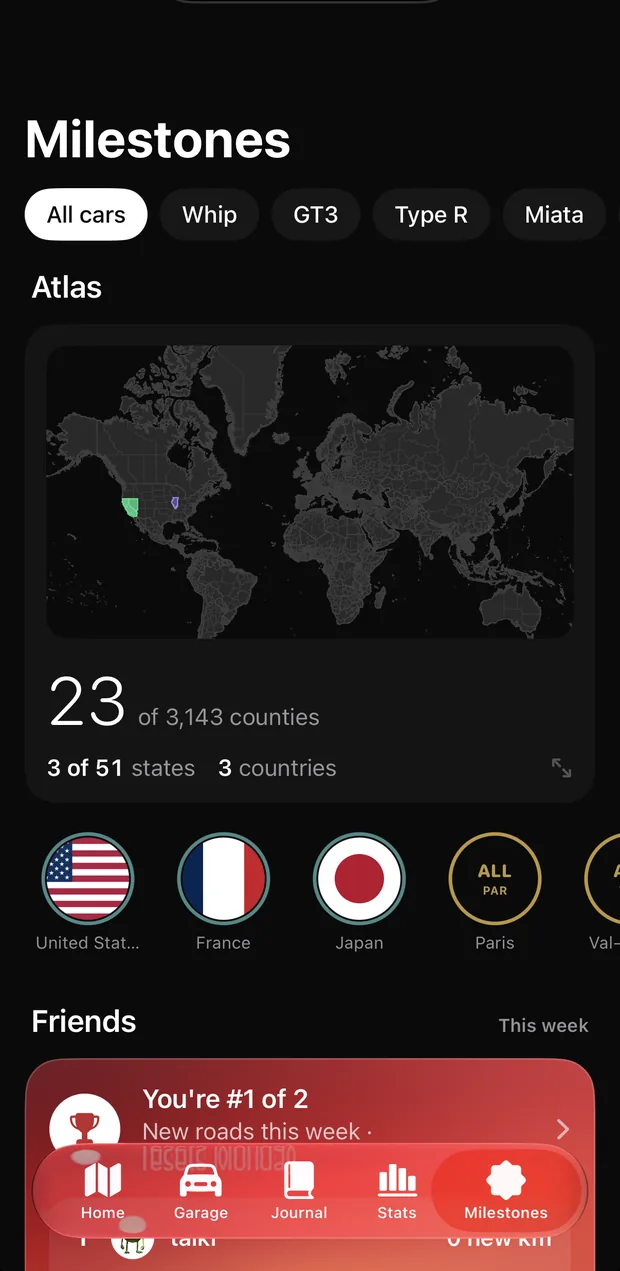
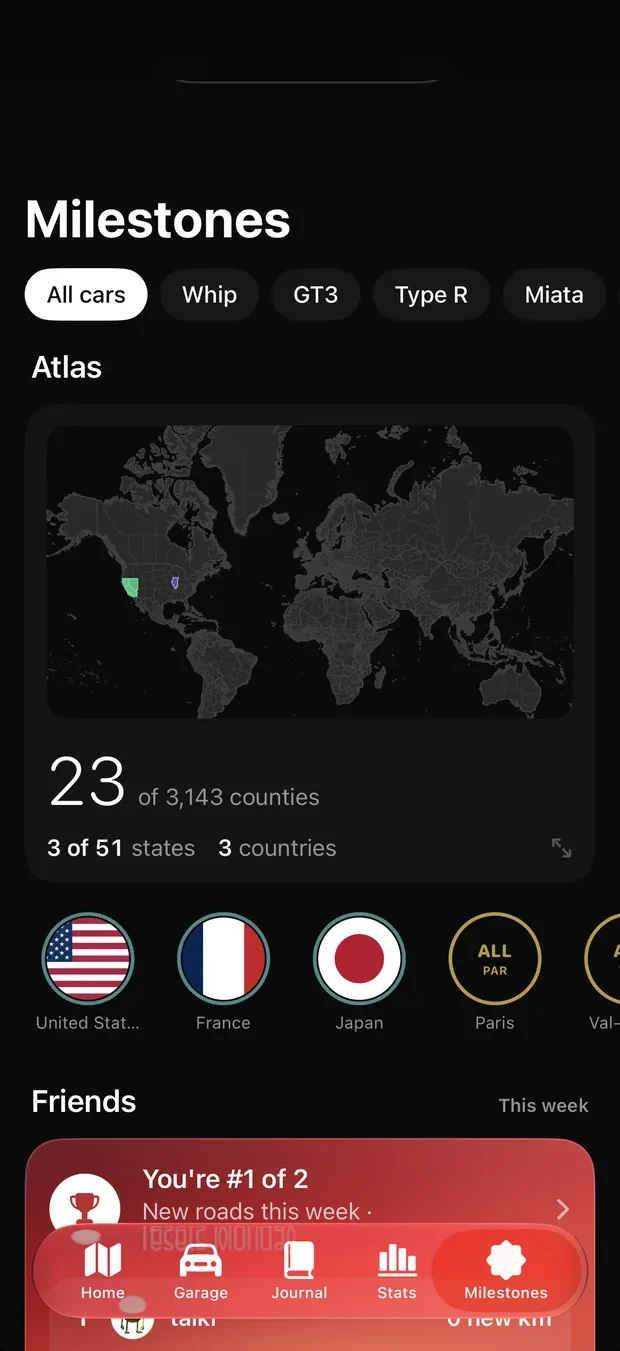
Site fixes: island space, no zoom, sample wording, one-line switches, phone layout
- Screenshots get a status-bar strip so the island no longer covers the app's top buttons
- Hero reel crossfades without scaling; entrance no longer scales phones
- Demo garage is beta-only: map copy now says sample logbook, iCloud sync replaces the demo switch
- Switch descriptions fit on one line on desktop
- Phones: no tall empty close/footer blocks, smaller logo block, shorter search placeholder

Claude-Session: https://claude.ai/code/session_01G1rxuYaUomcVygVk9vBgjS

diff --git a/support.html b/support.html
@@ -50,11 +50,11 @@
     <div class="wrap grid">
       <div class="search" data-rise>
         <h2 class="vh" id="faq2-title">Common questions</h2>
-        <label class="search-line"><svg viewBox="0 0 24 24" fill="none" stroke="currentColor" stroke-width="2" stroke-linecap="round" aria-hidden="true"><circle cx="11" cy="11" r="7"/><path d="m20 20-3.5-3.5"/></svg><span class="vh">Search help</span><input id="help-q" type="search" placeholder="Search, like battery or passenger" autocomplete="off"></label>
+        <label class="search-line"><svg viewBox="0 0 24 24" fill="none" stroke="currentColor" stroke-width="2" stroke-linecap="round" aria-hidden="true"><circle cx="11" cy="11" r="7"/><path d="m20 20-3.5-3.5"/></svg><span class="vh">Search help</span><input id="help-q" type="search" placeholder="Search, like battery" autocomplete="off"></label>
         <div class="topics" role="group" aria-label="Topics"><button type="button" data-topic="all" aria-pressed="true">All</button><button type="button" data-topic="recording" aria-pressed="false">Recording</button><button type="button" data-topic="cars" aria-pressed="false">Cars</button><button type="button" data-topic="map" aria-pressed="false">Map and Atlas</button><button type="button" data-topic="posters" aria-pressed="false">Posters</button><button type="button" data-topic="friends" aria-pressed="false">Friends</button><button type="button" data-topic="data" aria-pressed="false">iCloud and data</button><button type="button" data-topic="beta" aria-pressed="false">Beta</button></div>
         <p class="small muted" id="help-count" aria-live="polite" style="margin-top:12px"></p>
       </div>
-      <div class="help-list"><article class="help-item" id="record" data-topic="recording" data-rise><h3>A drive didn’t record.</h3><div class="ans"><p>In iOS Settings, set Location for Kaido to <span class="path">Always</span> and turn on <span class="path">Motion &amp; Fitness</span>. Kaido can’t record after you swipe it away in the app switcher, so leave it running in the background.</p><p>Low Power Mode can delay the start of short drives.</p></div></article><article class="help-item" id="battery" data-topic="recording" data-rise><h3>Does Kaido drain my battery?</h3><div class="ans"><p>Kaido uses motion to wake up only when you start driving, then records GPS until you park. Most of the battery use happens during drives. If it ever uses more than a few percent a day, Settings will say so under Recording.</p></div></article><article class="help-item" id="passenger" data-topic="recording" data-rise><h3>I was only a passenger.</h3><div class="ans"><p>Open the drive in Journal and choose <span class="path">Passenger</span> under Which car?. Passenger rides don’t count toward a car’s miles. If it wasn’t you at all, tap <span class="path">Not me</span>: the drive is hidden, then deleted after five seconds unless you tap Undo.</p></div></article><article class="help-item" id="trips" data-topic="recording" data-rise><h3>One stop split my drive in two.</h3><div class="ans"><p>A drive that starts within 10 minutes and 500 m of the last one joins it on its own. For a longer outing, tap <span class="path">Make a trip</span> in Journal and pick the drives that belong together.</p></div></article><article class="help-item" id="add-car" data-topic="cars" data-rise><h3>How do I add a car?</h3><div class="ans"><p>In Garage, tap <span class="path">+</span>. Scan the VIN with the camera or type it, and Kaido looks up the make and model. You can read the odometer with the camera as well.</p></div></article><article class="help-item" id="which-car" data-topic="cars" data-rise><h3>How does it pick the car?</h3><div class="ans"><p>It uses CarPlay and Bluetooth to tell your cars apart. If it guesses wrong, change the car in Journal under Which car?, and the drive moves to that car’s map.</p></div></article><article class="help-item" id="atlas" data-topic="map" data-rise><h3>What is the Atlas?</h3><div class="ans"><p>The Atlas lives in Milestones. It colors in every country, state, province, US county and Japanese prefecture or city your drives have passed through, and gives you a stamp for each.</p></div></article><article class="help-item" id="explored" data-topic="map" data-rise><h3>Explored is stuck at 0%.</h3><div class="ans"><p>Explored compares your drives with your town’s streets from OpenStreetMap, which Kaido downloads after you drive somewhere new. It can take a moment. If it stays at 0%, open Stats and tap <span class="path">Retry</span>.</p></div></article><article class="help-item" id="map-style" data-topic="map" data-rise><h3>Can I change how the map looks?</h3><div class="ans"><p>Tap the map button on Home to switch to the next look, or flick it left and right. Your choice is saved.</p></div></article><article class="help-item" id="posters" data-topic="posters" data-rise><h3>How do I make a poster?</h3><div class="ans"><p>Open a drive or a record and tap <span class="path">Share</span>. Pick the line color, turn the speed graph, car photo or End on map on or off, then export an image or a 9:16 video.</p></div></article><article class="help-item" id="add-friends" data-topic="friends" data-rise><h3>How do I add friends?</h3><div class="ans"><p>Open Friends and share your invite code. When a friend enters it, you each appear on the other’s weekly boards: new roads, new counties, longest trip and miles.</p></div></article><article class="help-item" id="friends-see" data-topic="friends" data-rise><h3>What do my friends see?</h3><div class="ans"><p>Your username, photo, country, cars and totals. If <span class="path">Share rides with friends</span> is on (it is at first), they also see your latest drive and the one you pin, including the route. Turn it off in Profile. The <a href="privacy.html#friends">privacy policy</a> lists every field.</p></div></article><article class="help-item" id="delete-friends" data-topic="friends" data-rise><h3>Deleting my Friends profile</h3><div class="ans"><p>Open <span class="path">Profile › Delete my Friends profile</span>. It removes your name, photo, totals, shared rides and invite code. Your drives stay on your iPhone.</p></div></article><article class="help-item" id="account" data-topic="data" data-rise><h3>Do I need an account?</h3><div class="ans"><p>No. Kaido uses your iCloud to sync, so there’s nothing to sign up for. Your drives and cars come back when you sign in to a new iPhone with the same Apple Account.</p></div></article><article class="help-item" id="delete-all" data-topic="data" data-rise><h3>How do I delete everything?</h3><div class="ans"><p>Delete drives and cars inside the app. To remove it all, delete the app, then remove Kaido’s data in <span class="path">Settings › your name › iCloud › Manage Storage</span>. Email us to remove a Friends profile you can no longer reach.</p></div></article><article class="help-item" id="beta" data-topic="beta" data-rise><h3>How do I join the beta?</h3><div class="ans"><p>Ask for an invite on the <a href="contact.html?topic=beta">contact page</a>. You’ll get a TestFlight link by email; install TestFlight from the App Store, then open the link on your iPhone.</p></div></article><article class="help-item" id="demo" data-topic="beta" data-rise><h3>Can I try Kaido without driving?</h3><div class="ans"><p>Yes. In Settings, tap <span class="path">Load the demo garage</span>: four years and 50,000 km across the USA, France and Japan. Tap <span class="path">Exit the demo</span> to go back to your own drives.</p></div></article></div>
+      <div class="help-list"><article class="help-item" id="record" data-topic="recording" data-rise><h3>A drive didn’t record.</h3><div class="ans"><p>In iOS Settings, set Location for Kaido to <span class="path">Always</span> and turn on <span class="path">Motion &amp; Fitness</span>. Kaido can’t record after you swipe it away in the app switcher, so leave it running in the background.</p><p>Low Power Mode can delay the start of short drives.</p></div></article><article class="help-item" id="battery" data-topic="recording" data-rise><h3>Does Kaido drain my battery?</h3><div class="ans"><p>Kaido uses motion to wake up only when you start driving, then records GPS until you park. Most of the battery use happens during drives. If it ever uses more than a few percent a day, Settings will say so under Recording.</p></div></article><article class="help-item" id="passenger" data-topic="recording" data-rise><h3>I was only a passenger.</h3><div class="ans"><p>Open the drive in Journal and choose <span class="path">Passenger</span> under Which car?. Passenger rides don’t count toward a car’s miles. If it wasn’t you at all, tap <span class="path">Not me</span>: the drive is hidden, then deleted after five seconds unless you tap Undo.</p></div></article><article class="help-item" id="trips" data-topic="recording" data-rise><h3>One stop split my drive in two.</h3><div class="ans"><p>A drive that starts within 10 minutes and 500 m of the last one joins it on its own. For a longer outing, tap <span class="path">Make a trip</span> in Journal and pick the drives that belong together.</p></div></article><article class="help-item" id="add-car" data-topic="cars" data-rise><h3>How do I add a car?</h3><div class="ans"><p>In Garage, tap <span class="path">+</span>. Scan the VIN with the camera or type it, and Kaido looks up the make and model. You can read the odometer with the camera as well.</p></div></article><article class="help-item" id="which-car" data-topic="cars" data-rise><h3>How does it pick the car?</h3><div class="ans"><p>It uses CarPlay and Bluetooth to tell your cars apart. If it guesses wrong, change the car in Journal under Which car?, and the drive moves to that car’s map.</p></div></article><article class="help-item" id="atlas" data-topic="map" data-rise><h3>What is the Atlas?</h3><div class="ans"><p>The Atlas lives in Milestones. It colors in every country, state, province, US county and Japanese prefecture or city your drives have passed through, and gives you a stamp for each.</p></div></article><article class="help-item" id="explored" data-topic="map" data-rise><h3>Explored is stuck at 0%.</h3><div class="ans"><p>Explored compares your drives with your town’s streets from OpenStreetMap, which Kaido downloads after you drive somewhere new. It can take a moment. If it stays at 0%, open Stats and tap <span class="path">Retry</span>.</p></div></article><article class="help-item" id="map-style" data-topic="map" data-rise><h3>Can I change how the map looks?</h3><div class="ans"><p>Tap the map button on Home to switch to the next look, or flick it left and right. Your choice is saved.</p></div></article><article class="help-item" id="posters" data-topic="posters" data-rise><h3>How do I make a poster?</h3><div class="ans"><p>Open a drive or a record and tap <span class="path">Share</span>. Pick the line color, turn the speed graph, car photo or End on map on or off, then export an image or a 9:16 video.</p></div></article><article class="help-item" id="add-friends" data-topic="friends" data-rise><h3>How do I add friends?</h3><div class="ans"><p>Open Friends and share your invite code. When a friend enters it, you each appear on the other’s weekly boards: new roads, new counties, longest trip and miles.</p></div></article><article class="help-item" id="friends-see" data-topic="friends" data-rise><h3>What do my friends see?</h3><div class="ans"><p>Your username, photo, country, cars and totals. If <span class="path">Share rides with friends</span> is on (it is at first), they also see your latest drive and the one you pin, including the route. Turn it off in Profile. The <a href="privacy.html#friends">privacy policy</a> lists every field.</p></div></article><article class="help-item" id="delete-friends" data-topic="friends" data-rise><h3>Deleting my Friends profile</h3><div class="ans"><p>Open <span class="path">Profile › Delete my Friends profile</span>. It removes your name, photo, totals, shared rides and invite code. Your drives stay on your iPhone.</p></div></article><article class="help-item" id="account" data-topic="data" data-rise><h3>Do I need an account?</h3><div class="ans"><p>No. Kaido uses your iCloud to sync, so there’s nothing to sign up for. Your drives and cars come back when you sign in to a new iPhone with the same Apple Account.</p></div></article><article class="help-item" id="delete-all" data-topic="data" data-rise><h3>How do I delete everything?</h3><div class="ans"><p>Delete drives and cars inside the app. To remove it all, delete the app, then remove Kaido’s data in <span class="path">Settings › your name › iCloud › Manage Storage</span>. Email us to remove a Friends profile you can no longer reach.</p></div></article><article class="help-item" id="beta" data-topic="beta" data-rise><h3>How do I join the beta?</h3><div class="ans"><p>Ask for an invite on the <a href="contact.html?topic=beta">contact page</a>. You’ll get a TestFlight link by email; install TestFlight from the App Store, then open the link on your iPhone.</p></div></article><article class="help-item" id="demo" data-topic="beta" data-rise><h3>Is there a demo?</h3><div class="ans"><p>In beta builds, yes. In Settings, tap <span class="path">Load the demo garage</span>: four years and 50,000 km across the USA, France and Japan. Tap <span class="path">Exit the demo</span> to go back to your own drives.</p></div></article></div>
       <p class="none" hidden>Nothing matches that. <a href="contact.html">Ask Taiki directly</a>.</p>
     </div>
   </section>

diff --git a/index.html b/index.html
@@ -45,11 +45,11 @@
       <div class="hero-stage">
         <div class="wrap hero-in">
           <h1 id="hero-title"><span class="half a">Every road</span> <span class="half b">you've driven.</span></h1>
-          <div class="hero-phone phone-order"><div class="phone reel"><img src="assets/screens/home-map.webp" width="620" height="1271" alt="Kaido Home screen: a dark map of Los Angeles covered in colored routes, 49,761 km over 1,222 drives" class="on" decoding="async"><img src="assets/screens/garage.webp" width="620" height="1271" alt="Kaido Garage: a Honda S2000 card over its routes around Tokyo, 13,293 km together" loading="lazy" decoding="async"><img src="assets/screens/journal.webp" width="620" height="1271" alt="Kaido Journal: a list of drives such as Arts District, Manhattan Beach and Glendora Mountain Road" loading="lazy" decoding="async"><img src="assets/screens/poster-718.webp" width="620" height="1271" alt="A Kaido poster: the biggest day, 718 km down the California coast" loading="lazy" decoding="async"></div></div>
+          <div class="hero-phone phone-order"><div class="phone reel"><img src="assets/screens/home-map.webp" width="620" height="1351" alt="Kaido Home screen: a dark map of Los Angeles covered in colored routes, 49,761 km over 1,222 drives" class="on" decoding="async"><img src="assets/screens/garage.webp" width="620" height="1351" alt="Kaido Garage: a Honda S2000 card over its routes around Tokyo, 13,293 km together" loading="lazy" decoding="async"><img src="assets/screens/journal.webp" width="620" height="1351" alt="Kaido Journal: a list of drives such as Arts District, Manhattan Beach and Glendora Mountain Road" loading="lazy" decoding="async"><img src="assets/screens/poster-718.webp" width="620" height="1351" alt="A Kaido poster: the biggest day, 718 km down the California coast" loading="lazy" decoding="async"></div></div>
           <div class="hero-foot">
             <div>
               <p class="intro"><strong>Kaido is a logbook for your car.</strong> It records every drive on its own and fills in a map of every road, county and country you've driven, car by car.</p>
-              <div class="actions"><a class="btn big" href="contact.html?topic=beta">Join the beta</a><a class="btn big quiet" href="#demo">Try the demo map</a></div>
+              <div class="actions"><a class="btn big" href="contact.html?topic=beta">Join the beta</a><a class="btn big quiet" href="#demo">Try the map</a></div>
             </div>
             <div class="hero-cap" aria-live="polite"><span class="step">1 of 4</span><span class="cap">Home: four years of drives, each car in its own color.</span><div class="dots" aria-hidden="true"><span class="on"></span><span></span><span></span><span></span></div></div>
           </div>
@@ -62,9 +62,9 @@
     <div class="wrap grid demo-grid">
       <div class="demo-copy">
         <h2 class="t-head" id="demo-title" data-rise>Look up a drive.</h2>
-        <p class="body muted" data-rise style="--i:1">Kaido ships with a demo garage so you can try every screen before your first drive: four years and about 50,000 km around Los Angeles, a year in France and a road trip across Japan. These are its routes.</p>
+        <p class="body muted" data-rise style="--i:1">Every drive lands in a logbook you can search by road, town or place. Try it here on a sample: four years and about 50,000 km around Los Angeles, a year in France and a road trip across Japan.</p>
         <div class="finder" data-rise style="--i:2">
-          <label for="find">Search the demo garage</label>
+          <label for="find">Search the sample logbook</label>
           <div class="finder-line"><input id="find" type="search" list="drive-names" autocomplete="off" spellcheck="false" placeholder="Big Sur"></div>
           <datalist id="drive-names"></datalist>
           <ul class="suggest" aria-label="Try one">
@@ -79,9 +79,9 @@
       <div class="demo-map" data-rise style="--i:1">
         <div class="map-card" data-base="assets/data/">
           <img class="map-fallback" src="assets/screens/video.webp" width="620" height="1348" alt="" loading="lazy">
-          <svg viewBox="0 0 1000 800" role="img" aria-label="Map of the demo garage's drives, one color per car"><g class="g-land"></g><g class="g-routes"></g></svg>
+          <svg viewBox="0 0 1000 800" role="img" aria-label="Map of the sample drives, one color per car"><g class="g-land"></g><g class="g-routes"></g></svg>
           <div class="map-head">
-            <div><p class="odo"><b>0</b><small>km</small></p><p class="odo-sub">Loading the demo garage</p></div>
+            <div><p class="odo"><b>0</b><small>km</small></p><p class="odo-sub">Loading the sample drives</p></div>
           </div>
         </div>
         <div class="regions" role="group" aria-label="Where to look">
@@ -108,8 +108,8 @@
         </div>
       </div>
       <div class="show duo">
-        <div class="phone" data-rise style="--i:0"><img src="assets/screens/atlas.webp" width="620" height="1271" alt="Kaido Milestones: the Atlas map, 23 of 3,143 counties, 3 of 51 states, 3 countries, with US, France and Japan stamps" loading="lazy" decoding="async"></div>
-        <div class="phone" data-rise style="--i:1"><img src="assets/screens/stamps.webp" width="620" height="1271" alt="Kaido stamps: 63 round stamps in a honeycomb, with the US, France and Japan flags in the middle" loading="lazy" decoding="async"></div>
+        <div class="phone" data-rise style="--i:0"><img src="assets/screens/atlas.webp" width="620" height="1351" alt="Kaido Milestones: the Atlas map, 23 of 3,143 counties, 3 of 51 states, 3 countries, with US, France and Japan stamps" loading="lazy" decoding="async"></div>
+        <div class="phone" data-rise style="--i:1"><img src="assets/screens/stamps.webp" width="620" height="1351" alt="Kaido stamps: 63 round stamps in a honeycomb, with the US, France and Japan flags in the middle" loading="lazy" decoding="async"></div>
       </div>
     </div>
   </section>
@@ -122,9 +122,9 @@
         <p class="body muted" data-rise style="--i:2">Share it as an image, or as a 9:16 video that draws the line and lands on the map.</p>
       </div>
       <figure class="show fan" style="margin:0">
-        <div class="phone" data-rise style="--i:0"><img src="assets/screens/poster-718.webp" width="620" height="1271" alt="Poster: Record, biggest day, 718 km. Barely got out of the car." loading="lazy" decoding="async"></div>
-        <div class="phone" data-rise style="--i:1"><img src="assets/screens/poster-hakone.webp" width="620" height="1271" alt="Poster: Hakone Turnpike at dawn, 48.9 km in 1 hour 6 minutes, top 87 km/h, in a Honda S2000" loading="lazy" decoding="async"></div>
-        <div class="phone" data-rise style="--i:2"><img src="assets/screens/poster-new-roads.webp" width="620" height="1271" alt="Poster: Record, new roads, 10,149 km. Roads you would never been down." loading="lazy" decoding="async"></div>
+        <div class="phone" data-rise style="--i:0"><img src="assets/screens/poster-718.webp" width="620" height="1351" alt="Poster: Record, biggest day, 718 km. Barely got out of the car." loading="lazy" decoding="async"></div>
+        <div class="phone" data-rise style="--i:1"><img src="assets/screens/poster-hakone.webp" width="620" height="1351" alt="Poster: Hakone Turnpike at dawn, 48.9 km in 1 hour 6 minutes, top 87 km/h, in a Honda S2000" loading="lazy" decoding="async"></div>
+        <div class="phone" data-rise style="--i:2"><img src="assets/screens/poster-new-roads.webp" width="620" height="1351" alt="Poster: Record, new roads, 10,149 km. Roads you would never been down." loading="lazy" decoding="async"></div>
       </figure>
     </div>
   </section>
@@ -132,8 +132,8 @@
   <section class="section" aria-labelledby="friends-title">
     <div class="wrap grid split">
       <div class="show duo left">
-        <div class="phone" data-rise style="--i:0"><img src="assets/screens/friend.webp" width="620" height="1271" alt="A friend card: kenji_r, Japan, Toyota GR86, 66,385 km across two cars, with a pinned drive on the Hakone Turnpike" loading="lazy" decoding="async"></div>
-        <div class="phone" data-rise style="--i:1"><img src="assets/screens/stats.webp" width="620" height="1271" alt="Kaido Stats: average speed 55 km/h, top 133 km/h, a speed chart, 3,770 left turns and 624 hard stops" loading="lazy" decoding="async"></div>
+        <div class="phone" data-rise style="--i:0"><img src="assets/screens/friend.webp" width="620" height="1351" alt="A friend card: kenji_r, Japan, Toyota GR86, 66,385 km across two cars, with a pinned drive on the Hakone Turnpike" loading="lazy" decoding="async"></div>
+        <div class="phone" data-rise style="--i:1"><img src="assets/screens/stats.webp" width="620" height="1351" alt="Kaido Stats: average speed 55 km/h, top 133 km/h, a speed chart, 3,770 left turns and 624 hard stops" loading="lazy" decoding="async"></div>
       </div>
       <div class="say right">
         <h2 class="t-head" id="friends-title" data-rise>Friends, ranked on new roads.</h2>
@@ -150,7 +150,7 @@
     </div>
     <div class="bands">
       <div class="band" data-c="green">
-        <div><p class="sent">Share rides with friends.</p><p class="why" data-on="Friends see your latest drive and the one you pin: route, distance, time and speeds." data-off="Friends see your name, cars and totals. No routes.">Friends see your latest drive and the one you pin: route, distance, time and speeds.</p></div>
+        <div><p class="sent">Share rides with friends.</p><p class="why" data-on="Friends see your latest and pinned drives: route, distance, time, speed." data-off="Friends see your name, cars and totals. No routes.">Friends see your latest and pinned drives: route, distance, time, speed.</p></div>
         <button class="switch" type="button" role="switch" aria-checked="true" aria-label="Share rides with friends"></button>
       </div>
       <div class="band" data-c="orange">
@@ -158,12 +158,12 @@
         <button class="switch" type="button" role="switch" aria-checked="true" aria-label="Put the speed graph on posters"></button>
       </div>
       <div class="band" data-c="blue">
-        <div><p class="sent">End the video on the map.</p><p class="why" data-on="The drawn route settles onto a black-and-white satellite map of where you drove." data-off="The video ends on the line alone.">The video ends on the line alone.</p></div>
+        <div><p class="sent">End the video on the map.</p><p class="why" data-on="The route settles onto a black-and-white satellite map." data-off="The video ends on the line alone.">The video ends on the line alone.</p></div>
         <button class="switch" type="button" role="switch" aria-checked="false" aria-label="End the video on the map"></button>
       </div>
       <div class="band" data-c="pink">
-        <div><p class="sent">Load the demo garage.</p><p class="why" data-on="Four years and 50,000 km across the USA, France and Japan, in six cars." data-off="Only your own drives. You can load the demo from Settings any time.">Only your own drives. You can load the demo from Settings any time.</p></div>
-        <button class="switch" type="button" role="switch" aria-checked="false" aria-label="Load the demo garage"></button>
+        <div><p class="sent">Sync with iCloud.</p><p class="why" data-on="Cars and drives follow you to a new iPhone, in your own private iCloud." data-off="Cars and drives stay on this iPhone only.">Cars and drives follow you to a new iPhone, in your own private iCloud.</p></div>
+        <button class="switch" type="button" role="switch" aria-checked="true" aria-label="Sync with iCloud"></button>
       </div>
     </div>
   </section>

diff --git a/assets/site.css b/assets/site.css
@@ -171,13 +171,13 @@ button, input, select, textarea { font: inherit; color: inherit; }
 
 /* ---------- Phone screenshots ---------- */
 .phone {
-  position: relative; aspect-ratio: 620 / 1271; border-radius: 13% / 6.3%;
+  position: relative; aspect-ratio: 620 / 1351; border-radius: 13% / 6%;
   background: #000; overflow: hidden; isolation: isolate;
   border: clamp(4px, 0.55vw, 9px) solid #1f1f22;
 }
 .phone img { position: absolute; inset: 0; width: 100%; height: 100%; object-fit: cover; object-position: top; }
 .phone::after { /* the island */
-  content: ""; position: absolute; top: 1.6%; left: 50%; width: 30%; height: 3.6%; transform: translateX(-50%);
+  content: ""; position: absolute; top: 1.5%; left: 50%; width: 31%; height: 3.9%; transform: translateX(-50%);
   background: #000; border-radius: 999px; z-index: 2;
 }
 
@@ -194,14 +194,14 @@ body[data-page="home"] .menu-btn { color: var(--on-dark); }
 body[data-page="home"] .sheet { background: var(--field-dark); color: var(--on-dark); }
 .hero-track { height: 220svh; }
 .hero-stage { position: sticky; top: 64px; height: calc(100svh - 64px); min-height: 600px; overflow: hidden; }
-.hero-in { --pw: clamp(220px, min(24vw, calc((100svh - 190px) * 0.488)), 400px); position: relative; height: 100%; display: grid; grid-template-columns: 1fr; grid-template-rows: 1fr; align-items: center; }
+.hero-in { --pw: clamp(220px, min(24vw, calc((100svh - 190px) * 0.459)), 400px); position: relative; height: 100%; display: grid; grid-template-columns: 1fr; grid-template-rows: 1fr; align-items: center; }
 .hero h1 { grid-area: 1 / 1; display: grid; grid-template-columns: 1fr var(--pw) 1fr; column-gap: clamp(20px, 3vw, 48px); align-items: center; padding-bottom: 6svh; position: relative; z-index: 1; pointer-events: none; }
 .hero .half { font-size: clamp(40px, 4.6vw, 88px); line-height: 0.96; letter-spacing: -0.045em; font-weight: 700; }
 .hero .half.a { grid-column: 1; justify-self: start; }
 .hero .half.b { grid-column: 3; justify-self: end; text-align: right; }
 .hero-phone { grid-area: 1 / 1; justify-self: center; width: var(--pw); margin-bottom: 6svh; pointer-events: none; }
-.hero .reel img { opacity: 0; transform: scale(1.04); transition: opacity 0.6s var(--ease-out), transform 0.9s var(--ease-out); }
-.hero .reel img.on { opacity: 1; transform: none; }
+.hero .reel img { opacity: 0; transition: opacity 0.45s ease; }
+.hero .reel img.on { opacity: 1; }
 .hero-foot { position: absolute; left: var(--margin); right: var(--margin); bottom: clamp(20px, 4svh, 40px); display: grid; grid-template-columns: 1fr 1fr; align-items: end; gap: 24px; }
 .hero-foot .intro { max-width: 34ch; font-size: var(--t-body); }
 .hero-foot .intro strong { font-weight: 600; }
@@ -326,7 +326,7 @@ body[data-page="home"] .sheet { background: var(--field-dark); color: var(--on-d
   transition: background-color 0.35s var(--ease-out), color 0.35s var(--ease-out);
 }
 .band .sent { font-size: var(--t-sub); font-weight: 700; letter-spacing: -0.035em; line-height: 1.05; }
-.band .why { font-size: var(--t-body); margin-top: 10px; max-width: 56ch; }
+.band .why { font-size: var(--t-body); margin-top: 10px; max-width: 72ch; }
 .band.on { color: #121212; }
 .band.on[data-c="blue"] { background: var(--car-gt3); }
 .band.on[data-c="green"] { background: var(--car-typer); }
@@ -409,7 +409,7 @@ body[data-page="home"] .sheet { background: var(--field-dark); color: var(--on-d
 .close-foot { display: grid; grid-template-columns: 1fr auto; align-items: end; gap: 24px; margin-top: 64px; }
 .close-foot p { max-width: 40ch; font-size: var(--t-body); }
 @media (max-width: 860px) {
-  .close { min-height: 80svh; }
+  .close { min-height: 0; }
   .close h2 { font-size: clamp(54px, 15vw, 96px); }
   .close-foot { grid-template-columns: 1fr; }
   .close-foot .btn { width: 100%; }
@@ -437,6 +437,7 @@ body[data-page="home"] .sheet { background: var(--field-dark); color: var(--on-d
   .foot-meta { grid-template-columns: 1fr; font-size: 13px; }
   .foot-meta .right { text-align: left; }
   .foot-top { flex-direction: column; }
+  .foot { min-height: 0; }
 }
 
 /* ---------- Inner pages ---------- */
@@ -546,7 +547,7 @@ body[data-page="home"] .sheet { background: var(--field-dark); color: var(--on-d
 .rules h3 { grid-column: 1 / span 6; font-size: clamp(26px, 2.8vw, 44px); letter-spacing: -0.03em; line-height: 1.05; }
 .rules p { grid-column: 8 / span 5; }
 @media (max-width: 860px) {
-  .logo-stage { grid-column: 1 / -1; }
+  .logo-stage { grid-column: 1 / -1; width: min(100%, 280px); border-radius: 24px; }
   .rules h3, .rules p { grid-column: 1 / -1; }
   .rules p { margin-top: 12px; }
 }
@@ -571,7 +572,7 @@ body[data-page="home"] .sheet { background: var(--field-dark); color: var(--on-d
 @media (prefers-reduced-motion: no-preference) {
 .js [data-rise] { opacity: 0; transform: translateY(24px); transition: opacity 0.7s var(--ease-out), transform 0.9s var(--ease-out); transition-delay: calc(var(--i, 0) * 80ms); }
 .js [data-rise].in { opacity: 1; transform: none; }
-.js .phone[data-rise] { transform: translateY(40px) scale(0.98); }
+.js .phone[data-rise] { transform: translateY(40px); }
 .js .phone[data-rise].in { transform: none; }
 .js .fan .phone[data-rise].in:nth-child(1) { transform: translateY(8%); }
 .js .fan .phone[data-rise].in:nth-child(3) { transform: translateY(14%); }

diff --git a/about.html b/about.html
@@ -76,18 +76,18 @@
     <div class="wrap">
       <h2 class="t-head" id="gal-title" data-rise style="margin-bottom:48px">Four screens, one logbook.</h2>
       <div class="gallery">
-        <figure data-rise><div class="phone"><img src="assets/screens/garage.webp" width="620" height="1271" alt="Garage: a Honda S2000 over its routes around Tokyo" loading="lazy" decoding="async"></div><figcaption><b>Garage.</b> Each car with its own map, odometer and color.</figcaption></figure>
-        <figure data-rise style="--i:1"><div class="phone"><img src="assets/screens/journal.webp" width="620" height="1271" alt="Journal: a list of drives in Los Angeles" loading="lazy" decoding="async"></div><figcaption><b>Journal.</b> Every drive, logged without a tap.</figcaption></figure>
-        <figure data-rise style="--i:2"><div class="phone"><img src="assets/screens/atlas.webp" width="620" height="1271" alt="Milestones: the Atlas with US, France and Japan stamps" loading="lazy" decoding="async"></div><figcaption><b>Atlas.</b> Countries, states and counties, filled in.</figcaption></figure>
-        <figure data-rise style="--i:3"><div class="phone"><img src="assets/screens/poster-new-roads.webp" width="620" height="1271" alt="A poster of 10,149 km of new roads" loading="lazy" decoding="async"></div><figcaption><b>Posters.</b> Any record, ready to share.</figcaption></figure>
+        <figure data-rise><div class="phone"><img src="assets/screens/garage.webp" width="620" height="1351" alt="Garage: a Honda S2000 over its routes around Tokyo" loading="lazy" decoding="async"></div><figcaption><b>Garage.</b> Each car with its own map, odometer and color.</figcaption></figure>
+        <figure data-rise style="--i:1"><div class="phone"><img src="assets/screens/journal.webp" width="620" height="1351" alt="Journal: a list of drives in Los Angeles" loading="lazy" decoding="async"></div><figcaption><b>Journal.</b> Every drive, logged without a tap.</figcaption></figure>
+        <figure data-rise style="--i:2"><div class="phone"><img src="assets/screens/atlas.webp" width="620" height="1351" alt="Milestones: the Atlas with US, France and Japan stamps" loading="lazy" decoding="async"></div><figcaption><b>Atlas.</b> Countries, states and counties, filled in.</figcaption></figure>
+        <figure data-rise style="--i:3"><div class="phone"><img src="assets/screens/poster-new-roads.webp" width="620" height="1351" alt="A poster of 10,149 km of new roads" loading="lazy" decoding="async"></div><figcaption><b>Posters.</b> Any record, ready to share.</figcaption></figure>
       </div>
     </div>
   </section>
   <section class="section" aria-labelledby="maker-title">
     <div class="wrap grid split">
       <div class="show duo left">
-        <div class="phone" data-rise style="--i:0"><img src="assets/screens/home-light.webp" width="620" height="1271" alt="Kaido Home on a daytime map of Los Angeles: 49,772 km, with car pills for Whip, Highliner and GT3" loading="lazy" decoding="async"></div>
-        <div class="phone" data-rise style="--i:1"><img src="assets/screens/video.webp" width="620" height="1271" alt="A Kaido video frame: routes around Los Angeles in six colors, one per car, and 30,918 miles" loading="lazy" decoding="async"></div>
+        <div class="phone" data-rise style="--i:0"><img src="assets/screens/home-light.webp" width="620" height="1351" alt="Kaido Home on a daytime map of Los Angeles: 49,772 km, with car pills for Whip, Highliner and GT3" loading="lazy" decoding="async"></div>
+        <div class="phone" data-rise style="--i:1"><img src="assets/screens/video.webp" width="620" height="1351" alt="A Kaido video frame: routes around Los Angeles in six colors, one per car, and 30,918 miles" loading="lazy" decoding="async"></div>
       </div>
       <div class="say right">
         <h2 class="t-head" id="maker-title" data-rise>Made by one person.</h2>

diff --git a/privacy.html b/privacy.html
@@ -67,7 +67,7 @@
 <li><strong>Shared rides</strong>, while <span class="path">Share rides with friends</span> is on (it is when you start): your latest drive and the drive you pin, each with its title, date, distance, time, average and top speed, car and route.</li>
 <li><strong>A pinned car</strong>, only if you pin one: its name, details, color, miles, photo and the routes of its drives.</li>
 </ul>
-<div class="callout"><p>Turn off <span class="path">Profile › Share rides with friends</span> to stop sharing rides. Un-pin a car to stop sharing it. Remove everything with <span class="path">Profile › Delete my Friends profile</span>. While the demo garage is loaded, Kaido doesn't send your totals or cars.</p></div></section><section id="services" aria-labelledby="services-h"><h2 id="services-h">Services Kaido contacts</h2><ul>
+<div class="callout"><p>Turn off <span class="path">Profile › Share rides with friends</span> to stop sharing rides. Un-pin a car to stop sharing it. Remove everything with <span class="path">Profile › Delete my Friends profile</span>. In beta builds, while the demo garage is loaded, Kaido doesn't send your totals or cars.</p></div></section><section id="services" aria-labelledby="services-h"><h2 id="services-h">Services Kaido contacts</h2><ul>
 <li><strong>Apple</strong>: Maps for map tiles and place names, and CloudKit for iCloud sync and Friends.</li>
 <li><strong>NHTSA vPIC</strong> (U.S. Department of Transportation): when you scan or type a VIN, the VIN is sent to look up the car's make and model.</li>
 <li><strong>OpenStreetMap</strong> (Overpass API, and a mirror if it's busy): Kaido downloads street data around your drives to light up the streets you've driven.</li>
